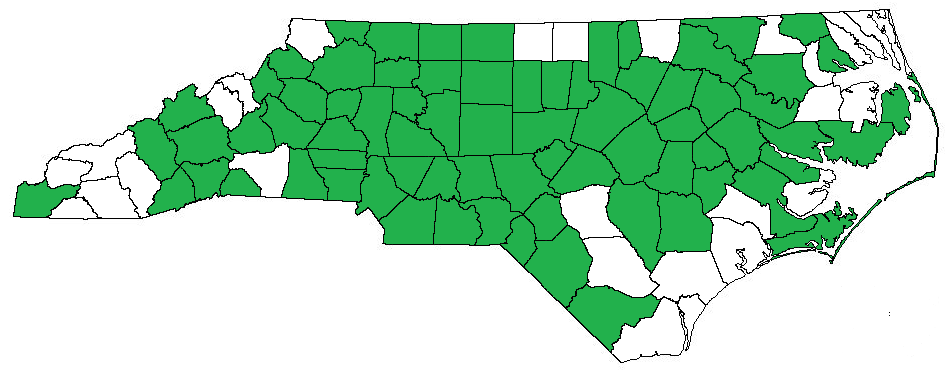
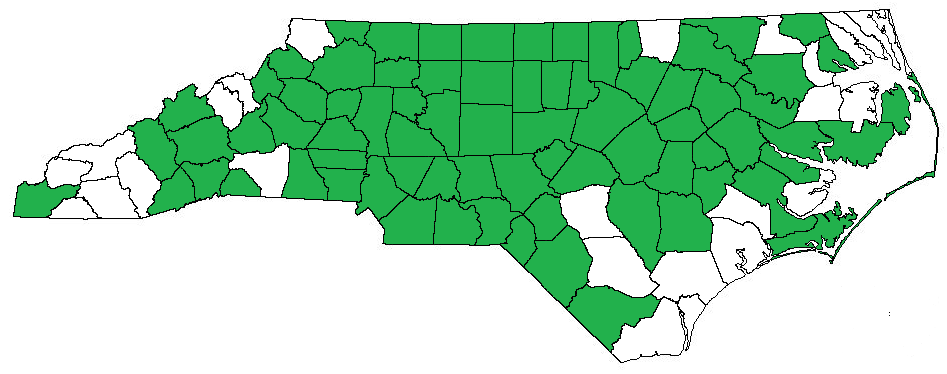
bbq 4/30

Changed region(s): [[0.5206, 0.0588, 0.6431, 0.1765]]

diff --git a/bbq/index.html b/bbq/index.html
@@ -58,10 +58,10 @@
 <br>
 <center>
 	<h2>Current County Counter</h2>
-	<h3><span style="color:red">73</span> / 100</h3>
-	<h3>98 different in-state BBQ joints</h3>
+	<h3><span style="color:red">75</span> / 100</h3>
+	<h3>101 different in-state BBQ joints</h3>
 	<h3>8 annual BBQ events</h3>
-	<p>(last updated 4/2/2023)</p>
+	<p>(last updated 4/30/2023)</p>
 </center>
 <br>
 
@@ -104,6 +104,7 @@
 <p><b>Buncombe County</b></p>
 <ul>
 	<li>Buxton Hall Barbecue - Asheville - 8/21/2022 - <i><span class="ncbsbbq">True 'Cue NC</span></i> - <a href="bbq-pics.html#Buxton">pictures</a></li>
+	<li>Phil's Bar-B-Q - Black Mountain - 4/30/2023 - <a href="bbq-pics.html#phils">pictures</a></li>
 	<li>Smokey and the Pig - Fairview - 12/22/2020</li>
 </ul>
 <br>
@@ -126,6 +127,11 @@
 <p><b>Carteret County</b></p>
 <ul>
 	<li>Big Oak Drive-In &amp BBQ - Salter Path - 3/13/2022 - <a href="bbq-pics.html#Big-Oak">pictures</a></li>
+</ul>
+<br>
+<p><b>Caswell County</b></p>
+<ul>
+	<li>Briggs' Bar-B-Que &amp; Grill - Yanceyville - 4/27/2023 - <a href="bbq-pics.html#briggs">pictures</a></li>
 </ul>
 <br>
 <p><b>Catawba County</b></p>
@@ -349,6 +355,11 @@
 	<li>Captain Bob's BBQ &amp; Seafood - Hertford - 1/29/2023 - <i><span class="ncbsbbq">True 'Cue NC</span></i> - <a href="bbq-pics.html#CptnBobs">pictures</a></li>
 </ul>
 <br>
+<p><b>Person County</b></p>
+<ul>
+	<li>Rox City Grill - Roxboro - 4/27/2023 - <a href="bbq-pics.html#rox">pictures</a></li>
+</ul>
+<br>
 <p><b>Pitt County</b></p>
 <ul>
 	<li>B's BBQ - Greenville - 12/13/2019 - <i><span class="ncbsbbq">NCBS BBQ Trail</span></i>; <i><span class="ncbsbbq">True 'Cue NC</span></i> - <a href="bbq-pics.html#Bs">pictures</a></li>
@@ -410,8 +421,8 @@
 <br>
 <p><b>Surry County</b></p>
 <ul>
+	<li>Mt. Airy VFW Post 2019 (Mt. Airy Old-Time Fiddlers Convention) - Mt. Airy - 6/4/2022 - <i><span class="annualbbq">Annual Event</span></i> - <a href="bbq-pics.html#Fiddlers">pictures</a></li>
 	<li>Little Richard's BBQ - Mt. Airy - 1/31/2021</li>
-	<li>Mt. Airy VFW Post 2019 (Mt. Airy Old-Time Fiddlers Convention) - Mt. Airy - 6/4/2022 -  - <i><span class="annualbbq">Annual Event</span></i> - <a href="bbq-pics.html#Fiddlers">pictures</a></li>
 </ul>
 <br>
 <p><b>Transylvania County</b></p>
@@ -609,6 +620,8 @@
 <p>About a month later, I went on another bbq mission, this time to the largely-neglected northeastern corner of the state.  We closed Friday night with a dinner in Louisburg at Johnny's Barbecue and meeting some friends at Tar Banks Brewery for some bluegrass by Into The Fog.  The next morning, we started the day with a brisk hike at Medoc Mountain State Park's Bluff Loop; after a lunch at Trackside Tavern in Conway (a fortunately-successful pivot forced by the unexpected closure of Walter's Grill, a Murfreesboro restaurant which had been open since 1943 but closed less than a month before our visit), we went to Murfreesboro's <a href="other-pics.html#Jefcoat">Brady C. Jefcoat Musuem</a>, where we learned about local history and the expansive and interesting collection of a longtime North Carolinian.  At the museum keeper's suggestion, we attempted to take the Parker Cable Ferry, but it was also sadly closed for the day without explanation -- a deviation from its regular daily schedule.  After a bit more of a detour than originally expected, we continued on to Merchants Millpond, where we hiked Bennett's Creek Trail.  We closed the day off with supper at Corapeake Country Restaurant, a hearty restaurant situated in a century-old general store on the western edge of the North Carolina/Virginia border and the Great Dismal Swamp.  The next morning, we hiked a few trails in the Great Dismal Swamp State Park and had brunch at Captain Bob's BBQ &amp; Seafood.  I had to do a bit of sweet-talking in order to get my 70th county: we arrived in Hertford around 10:20, about 40 minutes before their lunch menu started.  After explaining my quest a bit, our sever laughed a bit and suggested that she could warm a 1/2 lb of barbecue for me, but that it wouldn't come with any of the usual side.  Sated, we made our way back to Raleigh.</p>
 
 <p>My next couple barbeque spots were fairly quick ones.  On a skiing trip with my girlfriend and her sister, I hit Mars Hill's Stackhouse Restaurant for a post-ski snack, and then went down the road to the Mars Theatre Brewing Company, where we enjoyed some of their local brews.  On the way home, we stopped at Saluda's Green River Barbeque, which, in addition to some stellar cue, had among the best potato salad I've had in quite a while.  A couple of weeks later, we visited Stratford Bar-B-Q #2, a classic hickory-smoked join in northern NC, on my way to see Billy Strings in Winston-Salem.</p>
+
+<p>My next barbeque excursion was again encouraged by music: at the end of April, I took a half week off work and traveled west towards Wilkesboro, NC for Merlefest.  I used the trip as an excuse to swing north and hit Person and Caswell County, two areas I hadn't done many trips to without many 'cue restaurants.  Because the two counties were so close together, my girlfriend and I decided we would split a plate at each stop.  Disaster nearly struck early on in the trip when one of two pork-pickin' restaurants in Person County, Smokey Dave's BBQ, closed just **two days** prior to my trip.  Luckily, I had the foresight to check beforehand, and we were able to pivot to Rox City Grill in Roxboro.  Despite the joint not prominently featuring 'cue on the menu, their meat was nice and moist, and had almost a fried chicken-sort of skin on the meat.  They also offered a variety of sauces; I chose to get the classic vinegar sauce, though they had a more Virginian-style sauce as well.  After a stop at the <a href="other-pics.html#shangrila">Sangri-La Rock Village</a>, we visited Yanceyville's Briggs' Bar-B-Que, which had more tasty and moist meat, as well as some phenomenal collards.  After <a href="other-pics.html#merlefest">Merlefest</a>, we drove to Waynesville for a few days of hiking while my brother was back in town; on the way in, we hit Phil's Bar-B-Q in Black Mountain, which had a cool atmosphere and some very unique offerings, like BBQ Quesadillas and BBQ Nachos.</p>
 
 <center>- - - - - - - - - - -</center>
 

diff --git a/bbq/bbq-pics.html b/bbq/bbq-pics.html
@@ -191,6 +191,31 @@
         Show Image
 </button></center>
 
+<br>
+
+<p>Phil's Bar-B-Q - Black Mountain</p>
+<p><a id="phils"></p>
+<center><img id="image233" img-src="https://s3.us-east-1.wasabisys.com/cwclaib-website/NC-State-Page/bbq/Phils, Black Mountain/20230430_180931.jpg" width="800"></img></center>
+<center><button type="button"
+        onclick="show( image233, this )" id="btnID">
+        Show Image
+</button></center>
+<center><img id="image234" img-src="https://s3.us-east-1.wasabisys.com/cwclaib-website/NC-State-Page/bbq/Phils, Black Mountain/20230430_181209.jpg" width="800"></img></center>
+<center><button type="button"
+        onclick="show( image234, this )" id="btnID">
+        Show Image
+</button></center>
+<center><img id="image235" img-src="https://s3.us-east-1.wasabisys.com/cwclaib-website/NC-State-Page/bbq/Phils, Black Mountain/20230430_182204.jpg" width="800"></img></center>
+<center><button type="button"
+        onclick="show( image235, this )" id="btnID">
+        Show Image
+</button></center>
+<center><img id="image236" img-src="https://s3.us-east-1.wasabisys.com/cwclaib-website/NC-State-Page/bbq/Phils, Black Mountain/20230430_182249.jpg" width="800"></img></center>
+<center><button type="button"
+        onclick="show( image236, this )" id="btnID">
+        Show Image
+</button></center>
+
 
 
 
@@ -329,6 +354,31 @@
 <center><img id="image6" img-src="https://s3.us-east-1.wasabisys.com/cwclaib-website/NC-State-Page/bbq/Big Oak Drive-In _ BBQ - Salter Path/20220313_123705.jpg" width="800"></img></center>
 <center><button type="button"
         onclick="show( image6, this )" id="btnID">
+        Show Image
+</button></center>
+
+<br>
+<p><b>Caswell County</b></p>
+<p>Brigg's Bar-B-Que - Yanceyville</p>
+<p><a id="briggs"></p>
+<center><img id="image229" img-src="https://s3.us-east-1.wasabisys.com/cwclaib-website/NC-State-Page/bbq/Briggs, Yanceyville/20230427_124609.jpg" width="800"></img></center>
+<center><button type="button"
+        onclick="show( image229, this )" id="btnID">
+        Show Image
+</button></center>
+<center><img id="image230" img-src="https://s3.us-east-1.wasabisys.com/cwclaib-website/NC-State-Page/bbq/Briggs, Yanceyville/20230427_125118.jpg" width="800"></img></center>
+<center><button type="button"
+        onclick="show( image230, this )" id="btnID">
+        Show Image
+</button></center>
+<center><img id="image231" img-src="https://s3.us-east-1.wasabisys.com/cwclaib-website/NC-State-Page/bbq/Briggs, Yanceyville/20230427_130209.jpg" width="800"></img></center>
+<center><button type="button"
+        onclick="show( image231, this )" id="btnID">
+        Show Image
+</button></center>
+<center><img id="image232" img-src="https://s3.us-east-1.wasabisys.com/cwclaib-website/NC-State-Page/bbq/Briggs, Yanceyville/20230427_131630.jpg" width="800"></img></center>
+<center><button type="button"
+        onclick="show( image232, this )" id="btnID">
         Show Image
 </button></center>
 
@@ -1109,6 +1159,26 @@
 <center><img id="image211" img-src="https://s3.us-east-1.wasabisys.com/cwclaib-website/NC-State-Page/bbq/Captain Bobs, Hertford/20230129_101957.jpg" width="800"></img></center>
 <center><button type="button"
         onclick="show( image211, this )" id="btnID">
+        Show Image
+</button></center>
+
+<br>
+<p><b>Person County</b></p>
+<p>Rox City Grill - Roxboro</p>
+<p><a id="rox"></p>
+<center><img id="image226" img-src="https://s3.us-east-1.wasabisys.com/cwclaib-website/NC-State-Page/bbq/Rox City Grill, Roxboro/20230427_110341.jpg" width="800"></img></center>
+<center><button type="button"
+        onclick="show( image226, this )" id="btnID">
+        Show Image
+</button></center>
+<center><img id="image227" img-src="https://s3.us-east-1.wasabisys.com/cwclaib-website/NC-State-Page/bbq/Rox City Grill, Roxboro/20230427_111922.jpg" width="800"></img></center>
+<center><button type="button"
+        onclick="show( image227, this )" id="btnID">
+        Show Image
+</button></center>
+<center><img id="image228" img-src="https://s3.us-east-1.wasabisys.com/cwclaib-website/NC-State-Page/bbq/Rox City Grill, Roxboro/20230427_113531.jpg" width="800"></img></center>
+<center><button type="button"
+        onclick="show( image228, this )" id="btnID">
         Show Image
 </button></center>
 

diff --git a/bbq/other-pics.html b/bbq/other-pics.html
@@ -136,6 +136,23 @@
 
 <br>
 
+<h3>Merlefest - Wilkesboro</h3>
+<p><a id="merlefest"></p>
+<center><iframe width="800" height="800"
+	src="https://www.youtube.com/embed/ePXdNNTLbYQ">
+</iframe>
+</center>
+<center><iframe width="800" height="800"
+	src="https://www.youtube.com/embed/RcEtSfgqU6A">
+</iframe>
+</center>
+<center><iframe width="800" height="800"
+	src="https://www.youtube.com/embed/O8S7Qz2bYfg">
+</iframe>
+</center>
+
+<br>
+
 <h3>Mountain Top Trading Post - Mountain Rest, SC</h3>
 <p>(<i>NOTE: address is 5251 Hwy 28 S, Mountain Rest, SC - The name in Google Maps (Mountain Rest Trading Post) is incorrect.</i>)</p>
 <p><a id="Mountain-Rest"></p>
@@ -157,6 +174,27 @@
 <center><img id="image3" img-src="https://s3.us-east-1.wasabisys.com/cwclaib-website/NC-State-Page/bbq/S_T_s Soda Shop, Pittsboro/20220205_125500.jpg" width="800"></img></center>
 <center><button type="button"
         onclick="show( image3, this )" id="btnID">
+        Show Image
+</button></center>
+
+<br>
+
+
+<h3>Shangri-La Rock Village - Prospect Hill</h3>
+<p><a id="shangrila"></p>
+<center><img id="image31" img-src="https://s3.us-east-1.wasabisys.com/cwclaib-website/NC-State-Page/bbq/Shangri-La Rock Village, Prospect Hill/20230427_122636.jpg" width="800"></img></center>
+<center><button type="button"
+        onclick="show( image31, this )" id="btnID">
+        Show Image
+</button></center>
+<center><img id="image32" img-src="https://s3.us-east-1.wasabisys.com/cwclaib-website/NC-State-Page/bbq/Shangri-La Rock Village, Prospect Hill/20230427_122905.jpg" width="800"></img></center>
+<center><button type="button"
+        onclick="show( image32, this )" id="btnID">
+        Show Image
+</button></center>
+<center><img id="image33" img-src="https://s3.us-east-1.wasabisys.com/cwclaib-website/NC-State-Page/bbq/Shangri-La Rock Village, Prospect Hill/20230427_123151.jpg" width="800"></img></center>
+<center><button type="button"
+        onclick="show( image33, this )" id="btnID">
         Show Image
 </button></center>
 
@@ -185,9 +223,7 @@
         onclick="show( image12, this )" id="btnID">
         Show Image
 </button></center>
-<center><iframe width="800" height="800"
-	src="https://www.youtube.com/embed/PN89B3yU1EM">
-</iframe></center>
+<center></center>
 <center><iframe width="800" height="800"
 	src="https://www.youtube.com/embed/aAHdbAE8m2s">
 </iframe></center>
